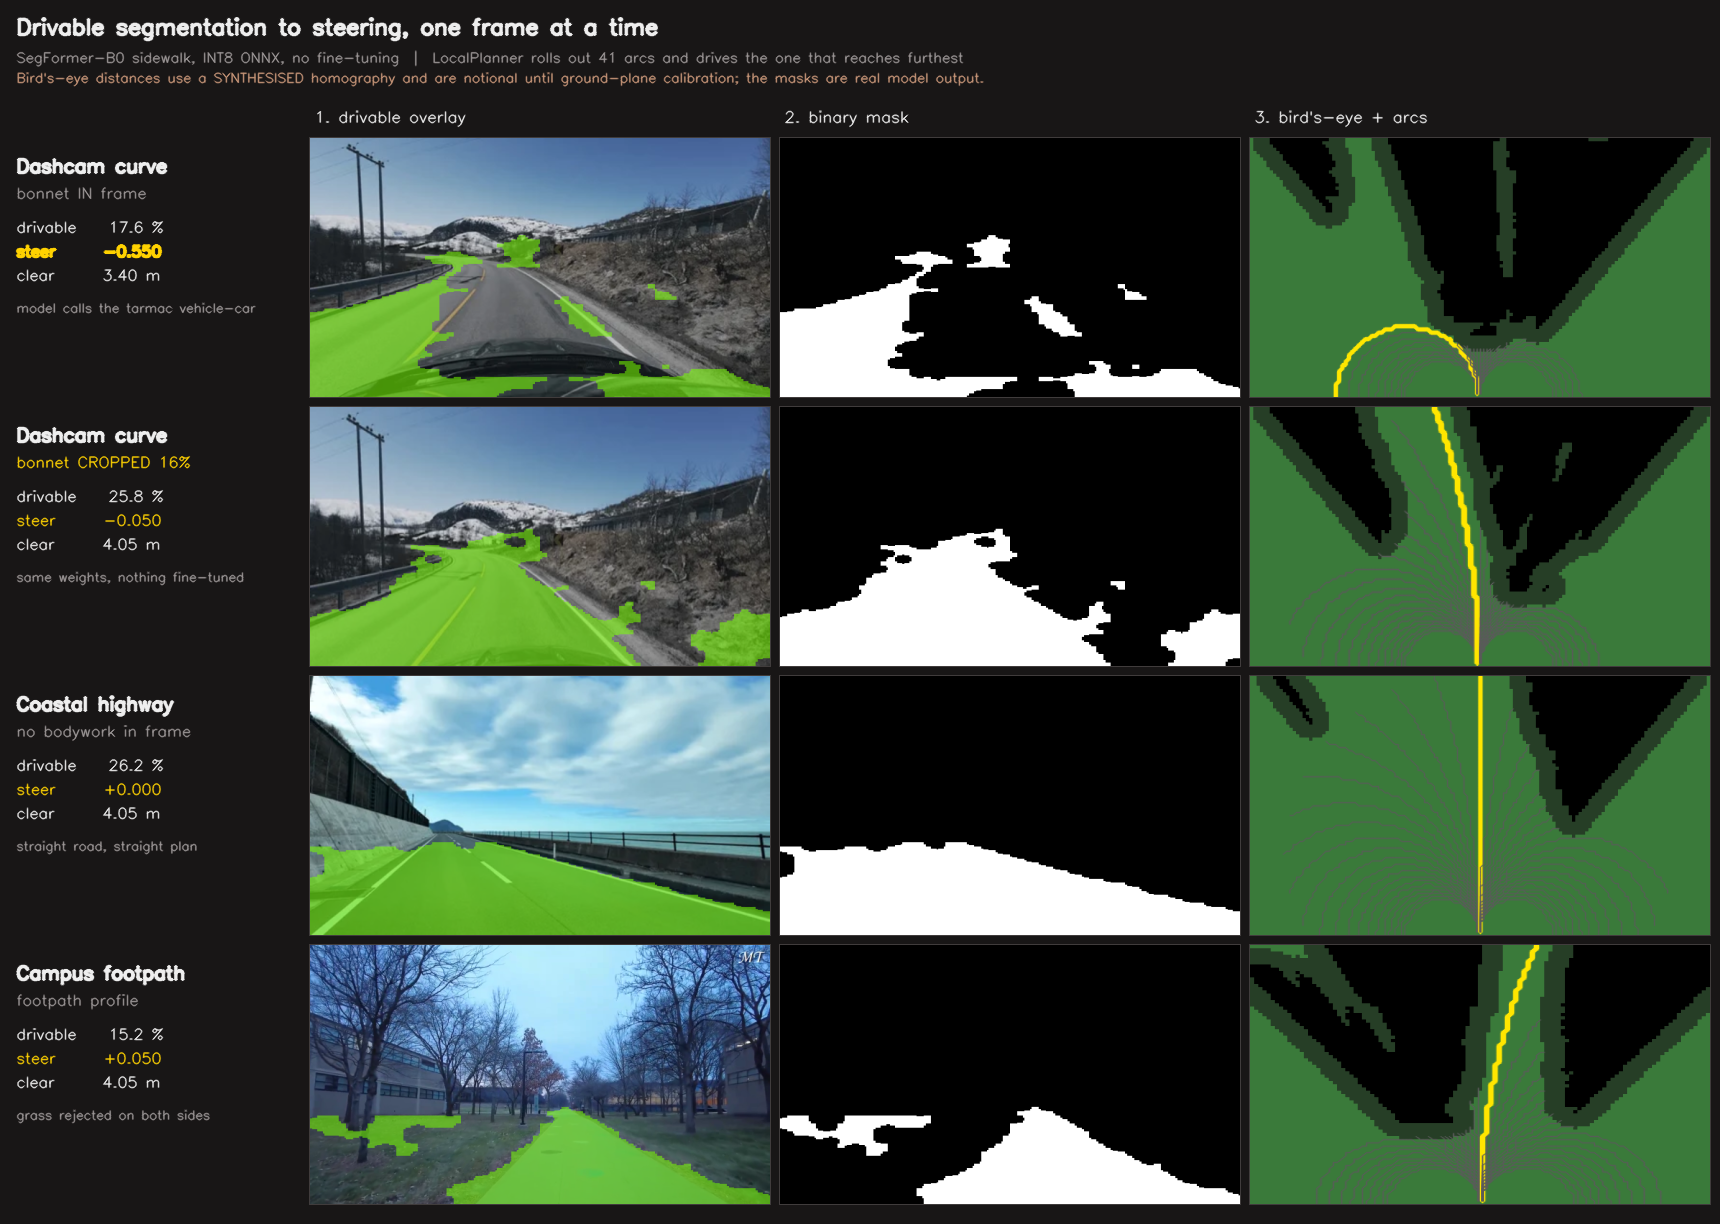
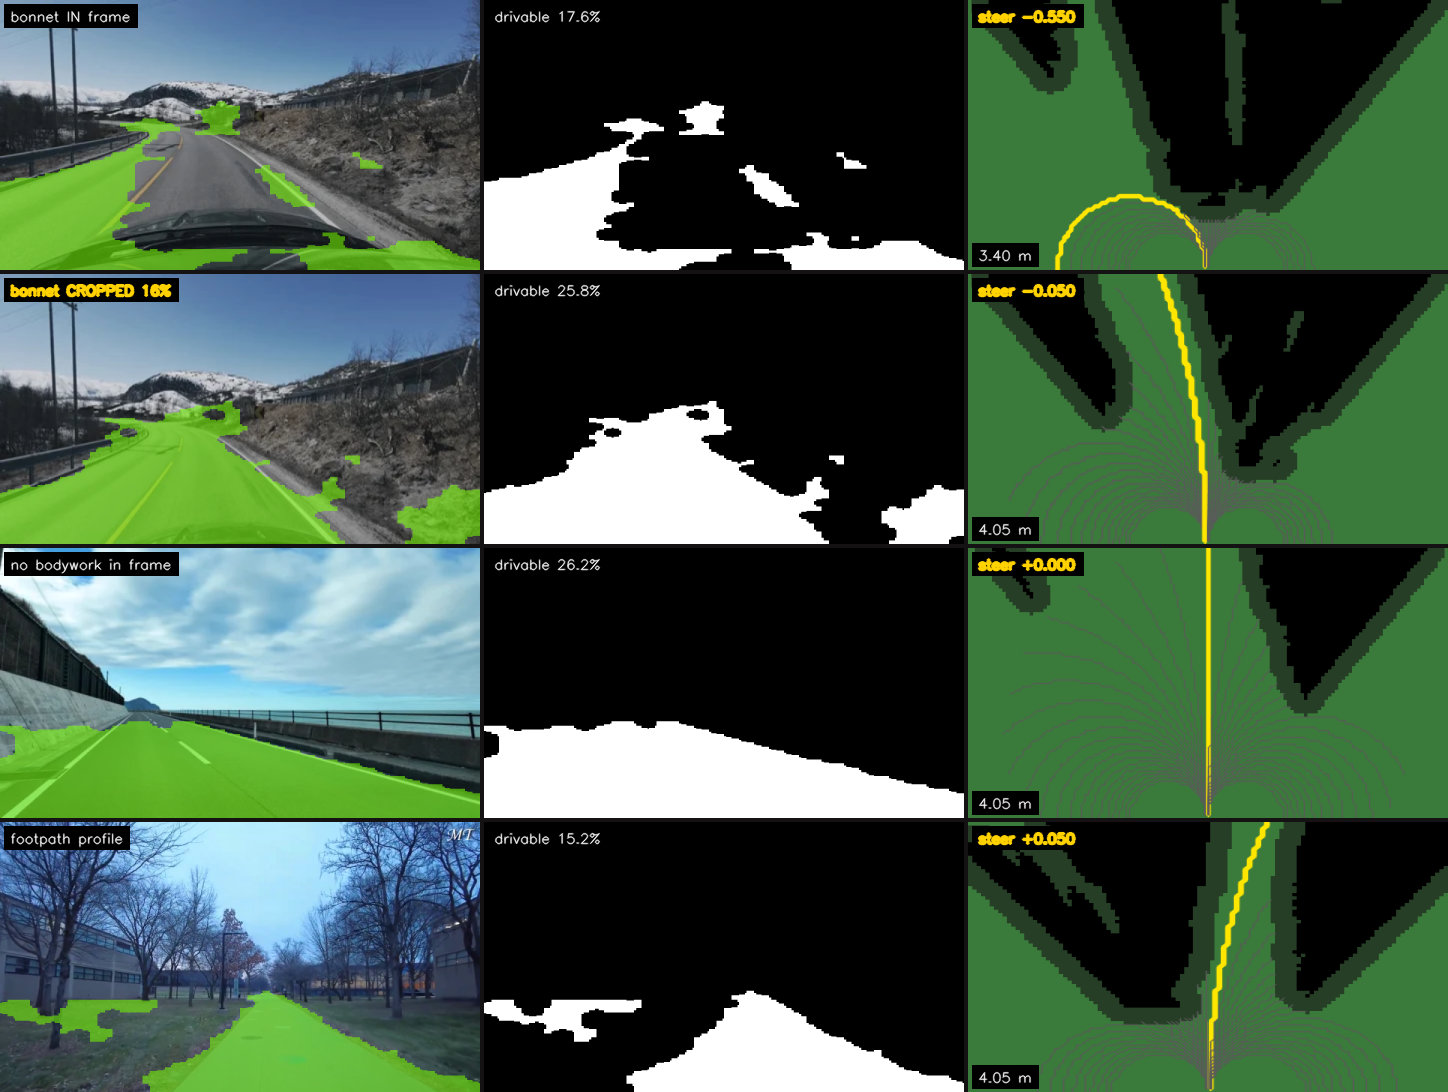
Strip the contact sheet down to a bare image grid
The title bar, column headers and left gutter were chrome around the pictures
rather than part of them, and they do not survive being pasted into a slide or
a chat. Four rows, three columns, hairline gaps, and the few numbers that
matter burned into the panels they belong to.

diff --git a/scripts/make_results_grid.py b/scripts/make_results_grid.py
@@ -23,16 +23,12 @@ from mycar.parts.local_planner import LocalPlanner                # noqa: E402
 from scripts.mask_and_plan_demo import (synth_homography,         # noqa: E402
                                         draw_arcs, PROFILES)
 
-PW, PH = 460, 259                 # one panel
-GUT, HDR, TITLE = 300, 46, 92     # left gutter, column header, title bar
-PAD = 10
+PW, PH = 480, 270                 # one panel
+GAP = 4                           # hairline between panels, nothing else
 
-BG = (22, 22, 24)
-FG = (238, 238, 238)
-DIM = (150, 150, 155)
+BG = (18, 18, 20)
+FG = (240, 240, 240)
 HI = (0, 210, 255)
-
-COLS = ["1. drivable overlay", "2. binary mask", "3. bird's-eye + arcs"]
 
 ROWS = [
     dict(key="curve_nocrop", title="Dashcam curve", sub="bonnet IN frame",
@@ -120,6 +116,15 @@ def build_row(spec, src_dir, model, labels):
     return panels, coverage, steer, clear, planner.n_candidates
 
 
+def stamp(panel, s, corner="tl", col=FG, weight=1, scale=0.46):
+    """Small caption burned into the panel itself — no chrome around the grid."""
+    (tw, th), _ = cv2.getTextSize(s, cv2.FONT_HERSHEY_SIMPLEX, scale, weight)
+    x = 10 if corner[1] == "l" else panel.shape[1] - tw - 10
+    y = 10 + th if corner[0] == "t" else panel.shape[0] - 10
+    cv2.rectangle(panel, (x - 6, y - th - 6), (x + tw + 6, y + 6), (0, 0, 0), -1)
+    text(panel, s, (x, y), scale, col, weight)
+
+
 def main():
     ap = argparse.ArgumentParser()
     ap.add_argument("--src", default=None,
@@ -132,53 +137,28 @@ def main():
     args = ap.parse_args()
     src = args.src or "."
 
-    W = GUT + 3 * PW + 4 * PAD
-    H = TITLE + HDR + 4 * (PH + PAD) + PAD
+    W = 3 * PW + 2 * GAP
+    H = 4 * PH + 3 * GAP
     sheet = np.full((H, W, 3), BG, np.uint8)
 
-    rows = []
-    for spec in ROWS:
-        rows.append((spec,) + build_row(spec, src, args.seg_model,
-                                        args.seg_labels))
-
-    n_arcs = rows[0][5]
-    text(sheet, "Drivable segmentation to steering, one frame at a time",
-         (PAD + 6, 34), 0.72, FG, 2)
-    text(sheet, "SegFormer-B0 sidewalk, INT8 ONNX, no fine-tuning  |  "
-                "LocalPlanner rolls out %d arcs and drives the one that "
-                "reaches furthest" % n_arcs,
-         (PAD + 6, 62), 0.46, DIM, 1)
-    text(sheet, "Bird's-eye distances use a SYNTHESISED homography and are "
-                "notional until ground-plane calibration; the masks are real "
-                "model output.",
-         (PAD + 6, 82), 0.44, (120, 150, 200), 1)
-
-    for c, name in enumerate(COLS):
-        x = GUT + PAD + c * (PW + PAD)
-        text(sheet, name, (x + 4, TITLE + 30), 0.52, FG, 1)
-
-    for r, (spec, panels, cov, steer, clear, _) in enumerate(rows):
-        y = TITLE + HDR + r * (PH + PAD)
+    stats = []
+    for r, spec in enumerate(ROWS):
+        panels, cov, steer, clear, _ = build_row(spec, src, args.seg_model,
+                                                 args.seg_labels)
+        stamp(panels[0], spec["sub"], "tl", HI if spec["crop"] else FG,
+              2 if spec["crop"] else 1)
+        stamp(panels[1], "drivable %.1f%%" % cov, "tl")
+        stamp(panels[2], "steer %+.3f" % steer, "tl", HI, 2)
+        stamp(panels[2], "%.2f m" % clear, "bl")
         for c, p in enumerate(panels):
-            x = GUT + PAD + c * (PW + PAD)
+            y, x = r * (PH + GAP), c * (PW + GAP)
             sheet[y:y + PH, x:x + PW] = p
-            cv2.rectangle(sheet, (x - 1, y - 1), (x + PW, y + PH),
-                          (60, 60, 64), 1)
-
-        gy = y + 34
-        text(sheet, spec["title"], (PAD + 6, gy), 0.62, FG, 2)
-        text(sheet, spec["sub"], (PAD + 6, gy + 26), 0.5,
-             HI if spec["crop"] else DIM, 1)
-        text(sheet, "drivable   %5.1f %%" % cov, (PAD + 6, gy + 60), 0.5, FG, 1)
-        text(sheet, "steer      %+.3f" % steer, (PAD + 6, gy + 84), 0.5,
-             HI, 2 if abs(steer) > 0.2 else 1)
-        text(sheet, "clear      %.2f m" % clear, (PAD + 6, gy + 108), 0.5, FG, 1)
-        text(sheet, spec["note"], (PAD + 6, gy + 140), 0.42, DIM, 1)
+        stats.append((spec, cov, steer, clear))
 
     Path(args.out).parent.mkdir(parents=True, exist_ok=True)
     cv2.imwrite(args.out, sheet)
     print("wrote %s  (%dx%d)" % (args.out, W, H))
-    for spec, _, cov, steer, clear, _ in rows:
+    for spec, cov, steer, clear in stats:
         print("  %-16s %-22s drivable %5.1f%%  steer %+.3f  clear %.2f m"
               % (spec["title"], spec["sub"], cov, steer, clear))
 

diff --git a/docs/results/README.md b/docs/results/README.md
@@ -2,8 +2,8 @@
 
 ![summary](summary_grid.png)
 
-`summary_grid.png` is the shareable 4x3 sheet of everything below, rebuilt with
-`scripts/make_results_grid.py`.
+`summary_grid.png` is the shareable 4x3 grid, rebuilt with
+`scripts/make_results_grid.py`. Rows are frames, columns are stages.
 
 Generated by `scripts/mask_and_plan_demo.py`, which runs the same `SegEngine`
 and `LocalPlanner` the cart runs. Three panels each: drivable overlay, the
